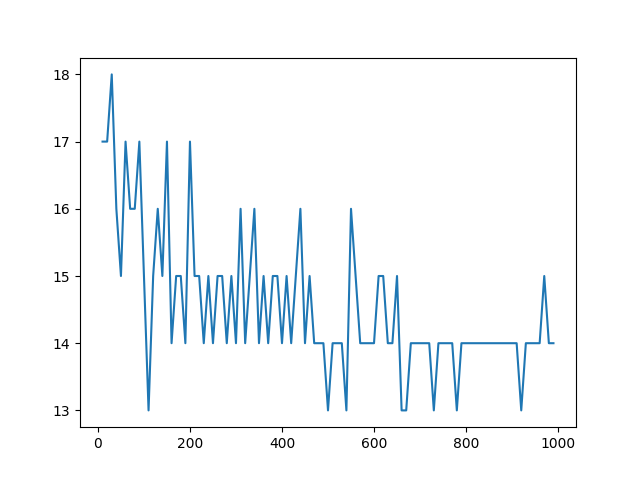
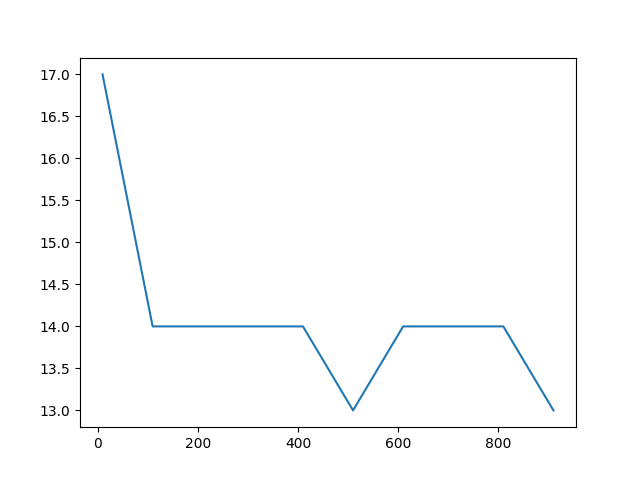
Corrijo random de greedy y lo parametrizo

diff --git a/repartidor_02.py b/repartidor_02.py
@@ -3,11 +3,11 @@ import random
 from common import ordenar_por_peso, aristas
 
 
-def repartidor(grafo):
-    return repartidor_random(grafo, inicial=random.choice(range(len(grafo))))
+def repartidor(grafo, mejores_n):
+    return repartidor_random(grafo, inicial=random.choice(range(len(grafo))), mejores_n=mejores_n)
 
 
-def repartidor_random(grafo, inicial=0):
+def repartidor_random(grafo, inicial=0, mejores_n=4):
     """
     Dado un grafo, voy a recorrer sus nodos y para cada nodo voy a tomar la arista con menor
     peso que no haya sido visitada.
@@ -17,16 +17,12 @@ def repartidor_random(grafo, inicial=0):
     visitados = {actual}
 
     while len(visitados) != len(grafo):
-        count = 0
-        for arista, peso in ordenar_por_peso(aristas(grafo[actual])):
-            moneda = random.choice([True, False])
+        aristas_validas = [arista for arista, peso in ordenar_por_peso(aristas(grafo[actual])) if arista not in visitados and arista != actual]
 
-            if arista not in visitados and arista != actual and (moneda or count == len(grafo)-1):
-                visitados.add(arista)
-                resultado.append((actual, arista))
-                actual = arista
-                break
-            count += 1
+        arista = random.choice(aristas_validas[:mejores_n])
+        visitados.add(arista)
+        resultado.append((actual, arista))
+        actual = arista
 
     resultado.append((actual, inicial))
     return resultado

diff --git a/main.py b/main.py
@@ -12,18 +12,19 @@ if __name__ == '__main__':
         generar(n)
         with open("input.json", "r") as file:
             grafo = json.load(file)
-            start_loops = n
-            increment = n
-            limit = n * 100
+            loops = n
+            incremento = n * 10
+            limite = (n ** 2) * 10
+            mejores_n = 2
             x = []
             y = []
-            print(f"Calculando camino hamiltoniano minimo desde {start_loops} repeticiones, incremento de {increment}"
-                  f" y limite de {limit}")
-            while start_loops < limit:
-                result = grasp(grafo, start_loops)
-                x.append(start_loops)
+            print(f"Calculando camino hamiltoniano minimo desde {loops} repeticiones, incremento de {incremento}"
+                  f" y limite de {limite}. Greedy entre los mejores {mejores_n}")
+            while loops < limite:
+                result = grasp(grafo, loops, mejores_n)
+                x.append(loops)
                 y.append(result[0])
-                start_loops += increment
+                loops += incremento
             print("Graficando resultados")
             plt.plot(x, y)
             plt.savefig(f"resultados/grasp-{len(grafo)}.png")

diff --git a/grasp.py b/grasp.py
@@ -7,13 +7,13 @@ from repartidor_02 import repartidor
 from repartidor_03 import busqueda_local
 
 
-def grasp(grafo, loops):
+def grasp(grafo, loops, mejores_n):
     costo_actual = math.inf
     resultado = None
 
     i = 0
     while i < loops:
-        resultado_parcial = busqueda_local(grafo, repartidor(grafo))
+        resultado_parcial = busqueda_local(grafo, repartidor(grafo, mejores_n=mejores_n))
         nuevo_costo = costo(grafo, resultado_parcial)
         if nuevo_costo < costo_actual:
             resultado = resultado_parcial
